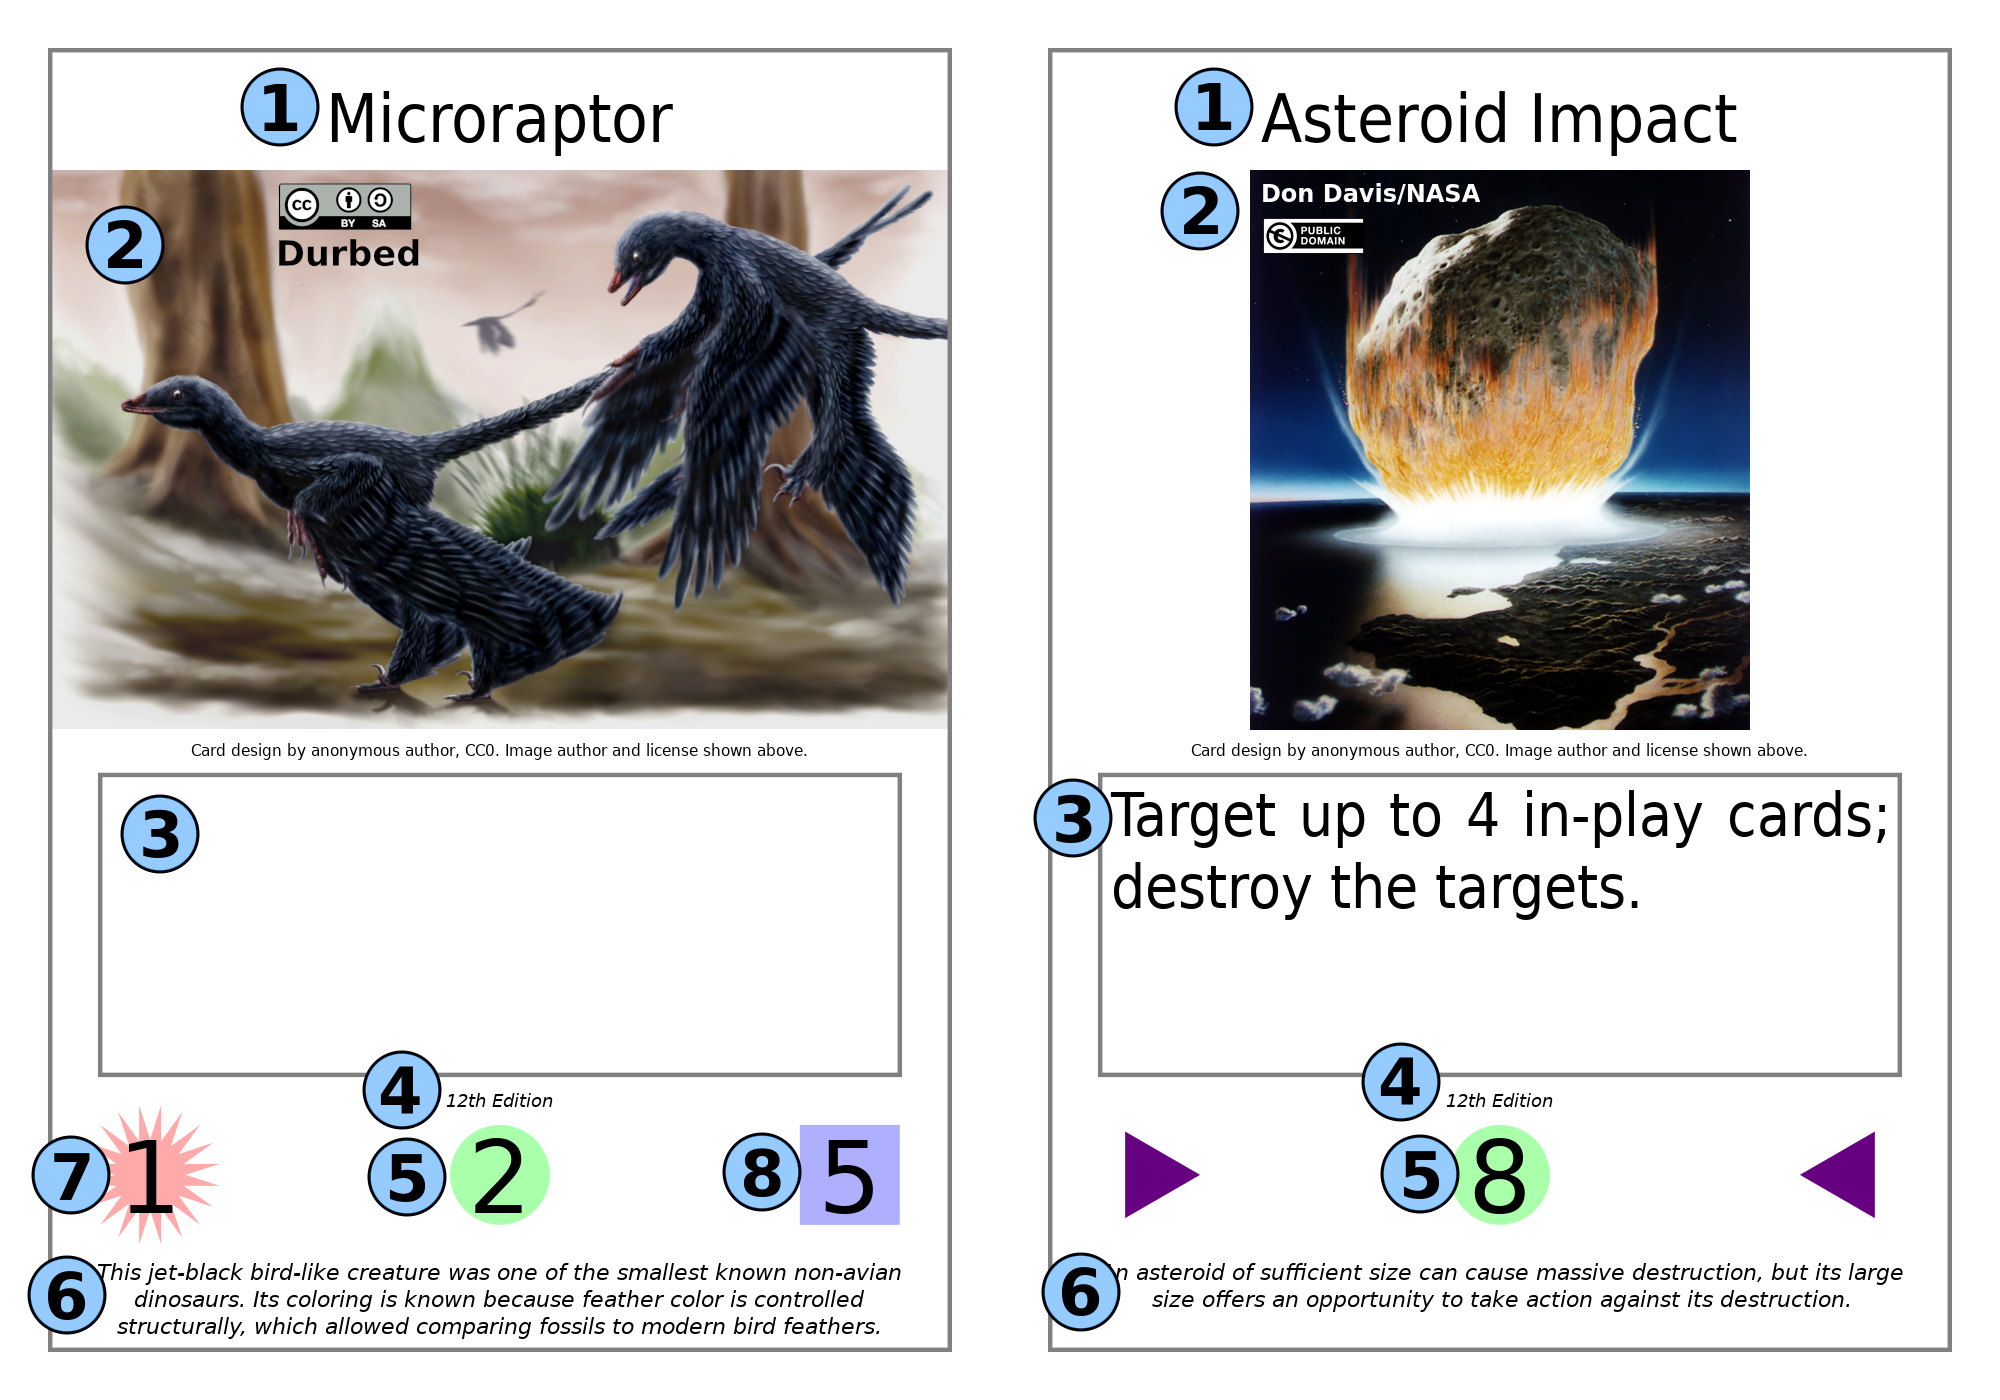
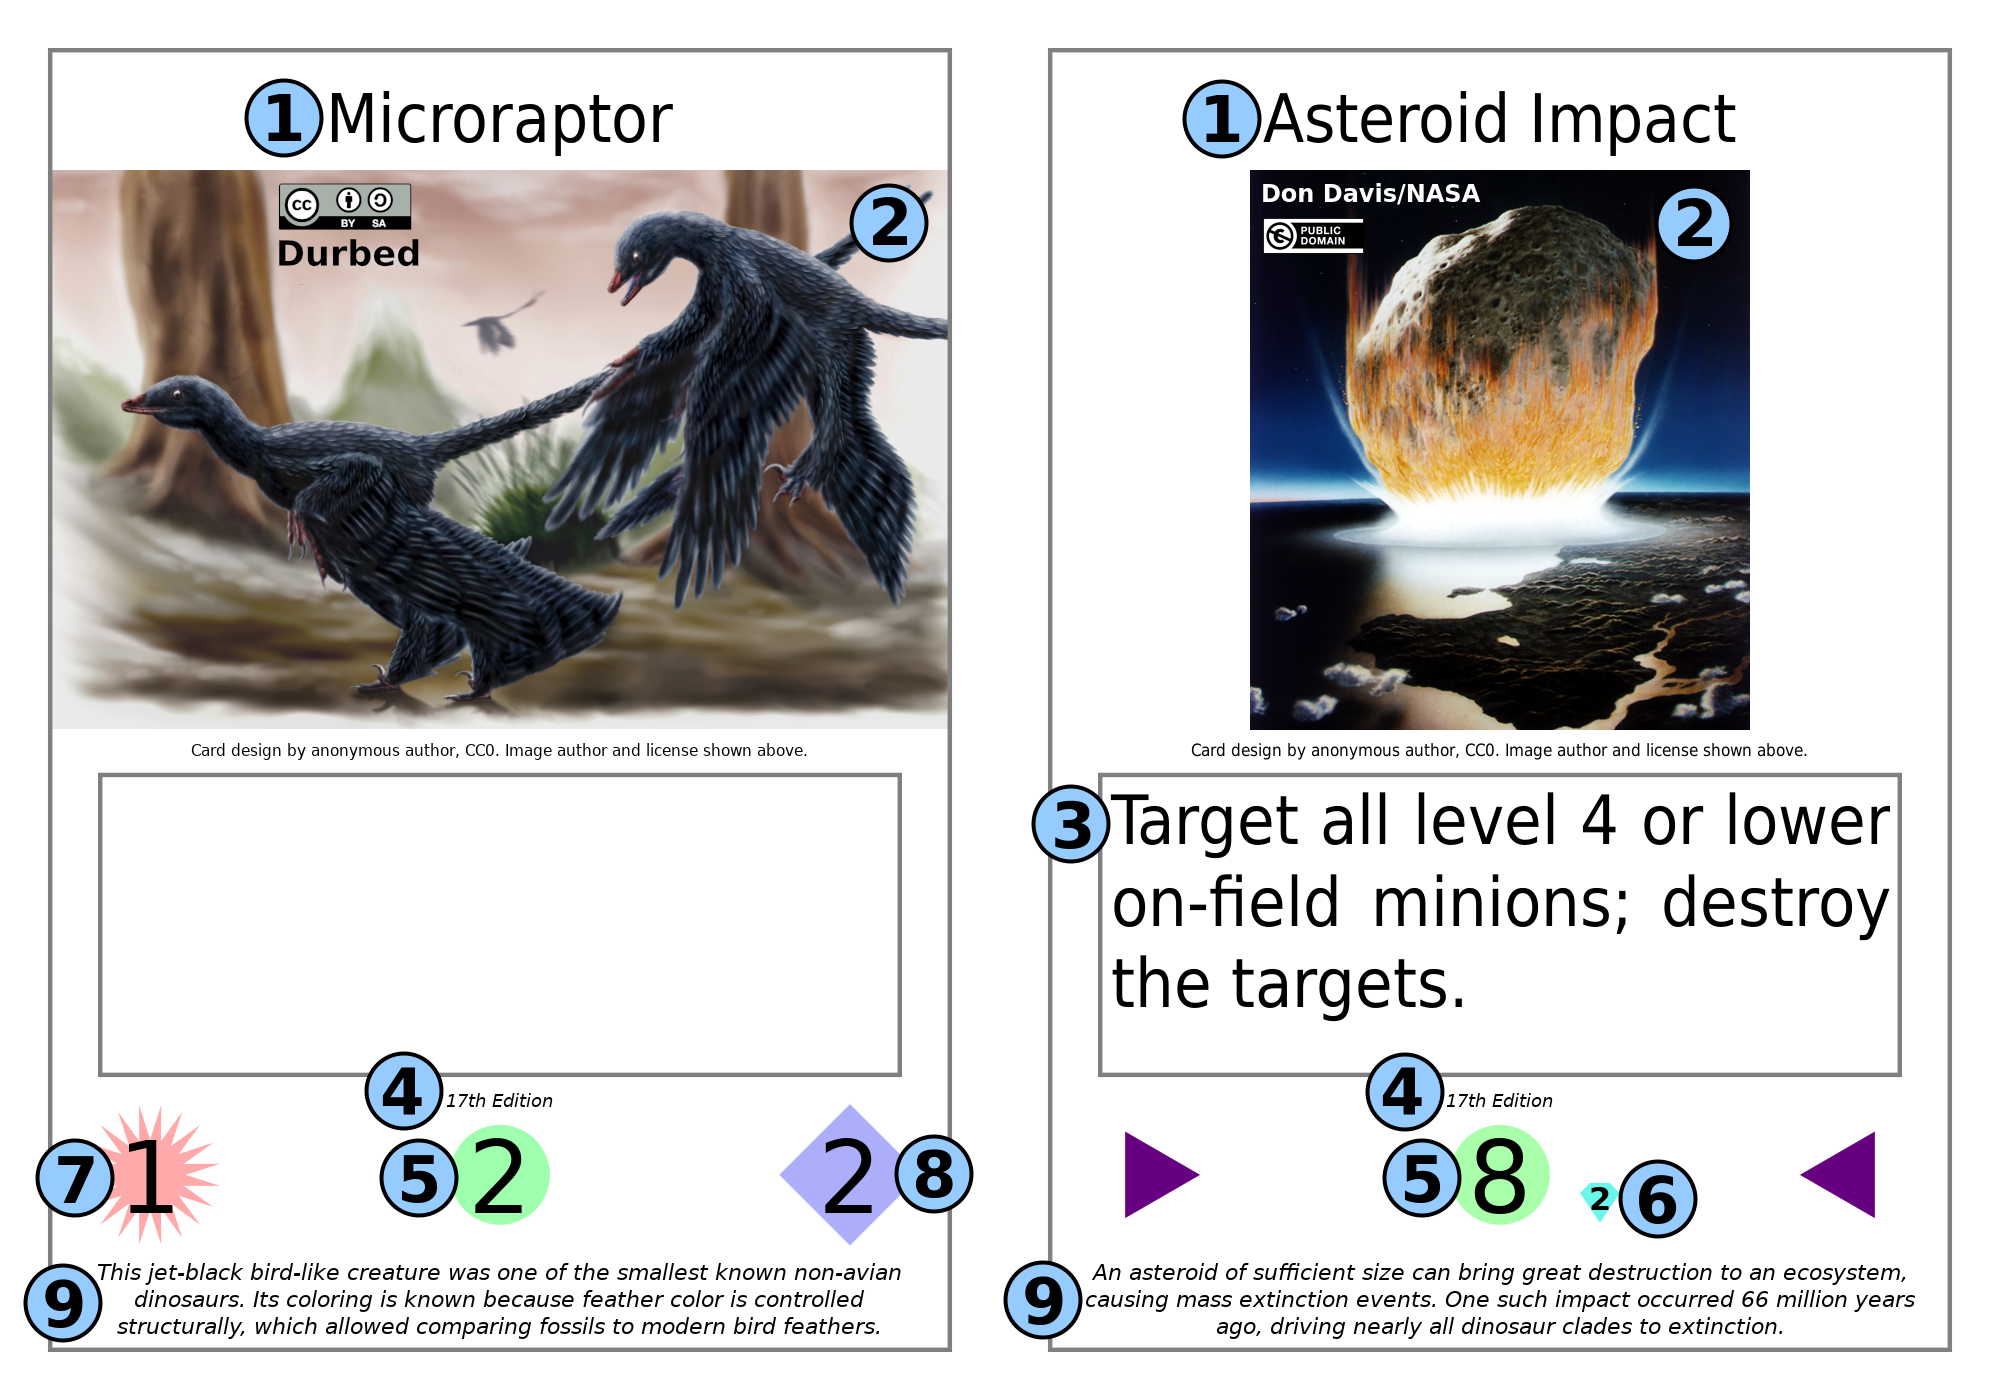
Updated the card examples image, and added Ultra Points to described elements.

diff --git a/rulebook.html b/rulebook.html
@@ -62,11 +62,12 @@
             <li>The name of the card. This is purely cosmetic and has no effect on the game.</li>
             <li>The card image. This is purely cosmetic and has no effect on the game.</li>
             <li>The ability text of the card.</li>
-            <li>Edition Indicator indicating the edition of the game the card was designed for.</li>
+            <li>The <dfn>Edition Indicator</dfn>, which indicates the edition of the game the card was designed for.</li>
             <li>The level of the card.</li>
-            <li>The flavor text of the card. This is purely cosmetic and has no effect on the game.</li>
+            <li>The <dfn>Ultra Points</dfn> value of the card. Each deck is allowed to contain no more than 10 Ultra Points in total. If this is not present, the card is worth 0 Ultra Points.</li>
             <li>The <abbr title="strength points">SP</abbr> of the card.</li>
             <li>The <abbr title="hitpoints">HP</abbr> of the card.</li>
+            <li>The flavor text of the card. This is purely cosmetic and has no effect on the game.</li>
         </ol>
 
         <h3 id="setup">Setup and Deck Building</h3>
